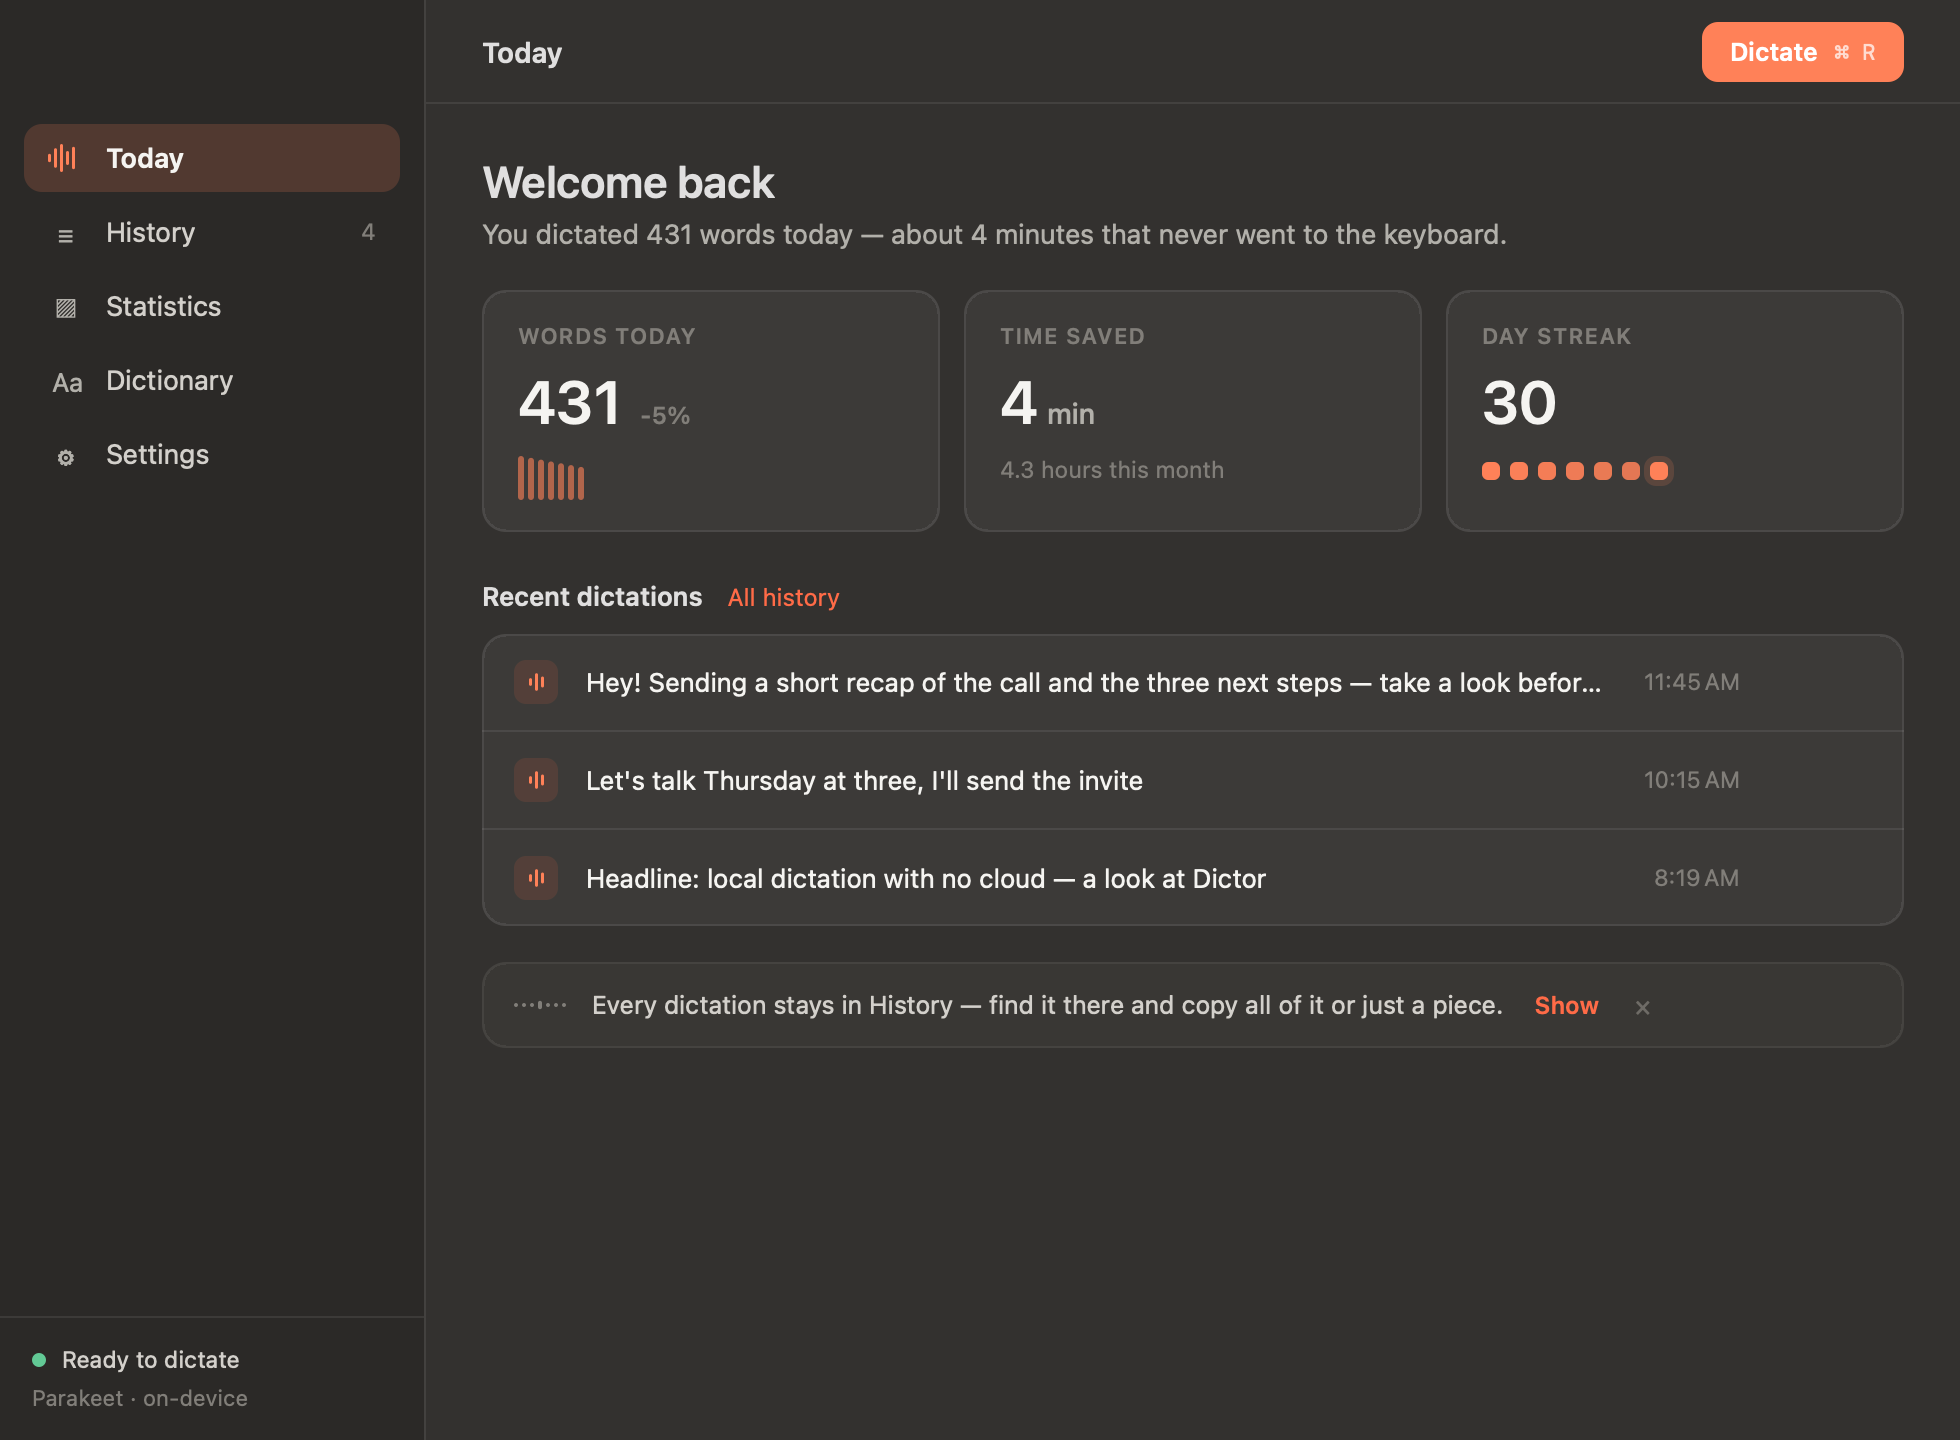
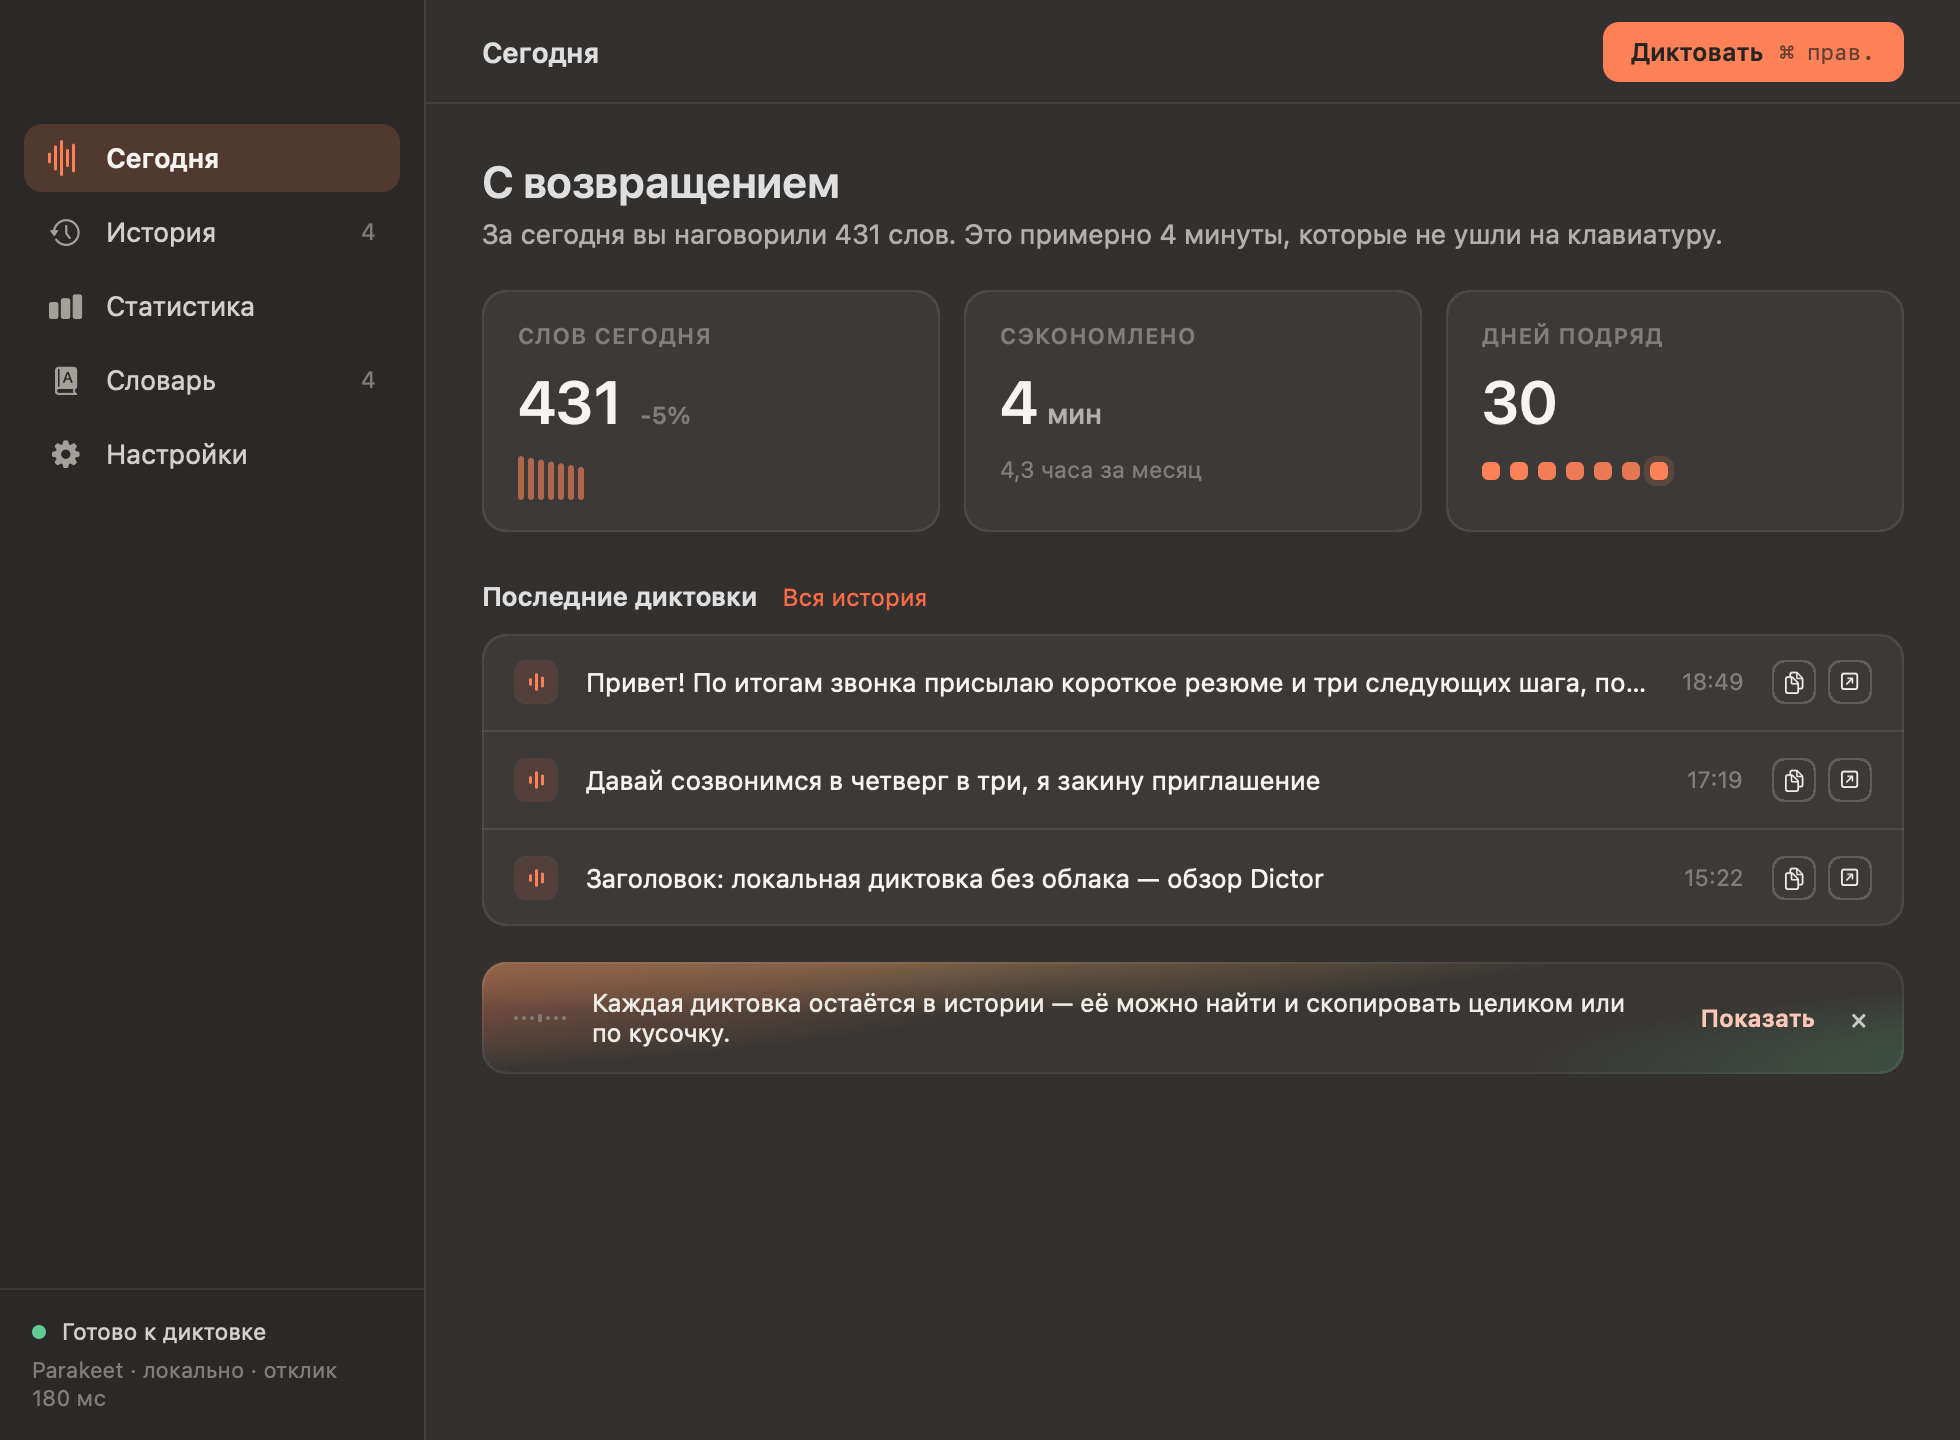
Скриншоты пересняты сборкой 1.8.2, промежуточный форк убран из NOTICE Скриншоты в docs/screenshots отставали на редизайн: сайдбар с прежними юникод-глифами, старая раскладка настроек, пустая полоса над первой строкой. Пересняты текущей сборкой: today (обе темы), history, stats, dictionary, settings.

diff --git a/NOTICE.md b/NOTICE.md
@@ -6,9 +6,8 @@ project where upstream names appear.
 
 # Attribution
 
-Dictor descends from SuperDictate, which is itself derived from
-[Parakey](https://github.com/rcourtman/parakey), originally created by
-Richard Courtman and distributed under the MIT License.
+Dictor descends from [Parakey](https://github.com/rcourtman/parakey),
+originally created by Richard Courtman and distributed under the MIT License.
 
 The original copyright notice and license are preserved in `LICENSE`.
 
